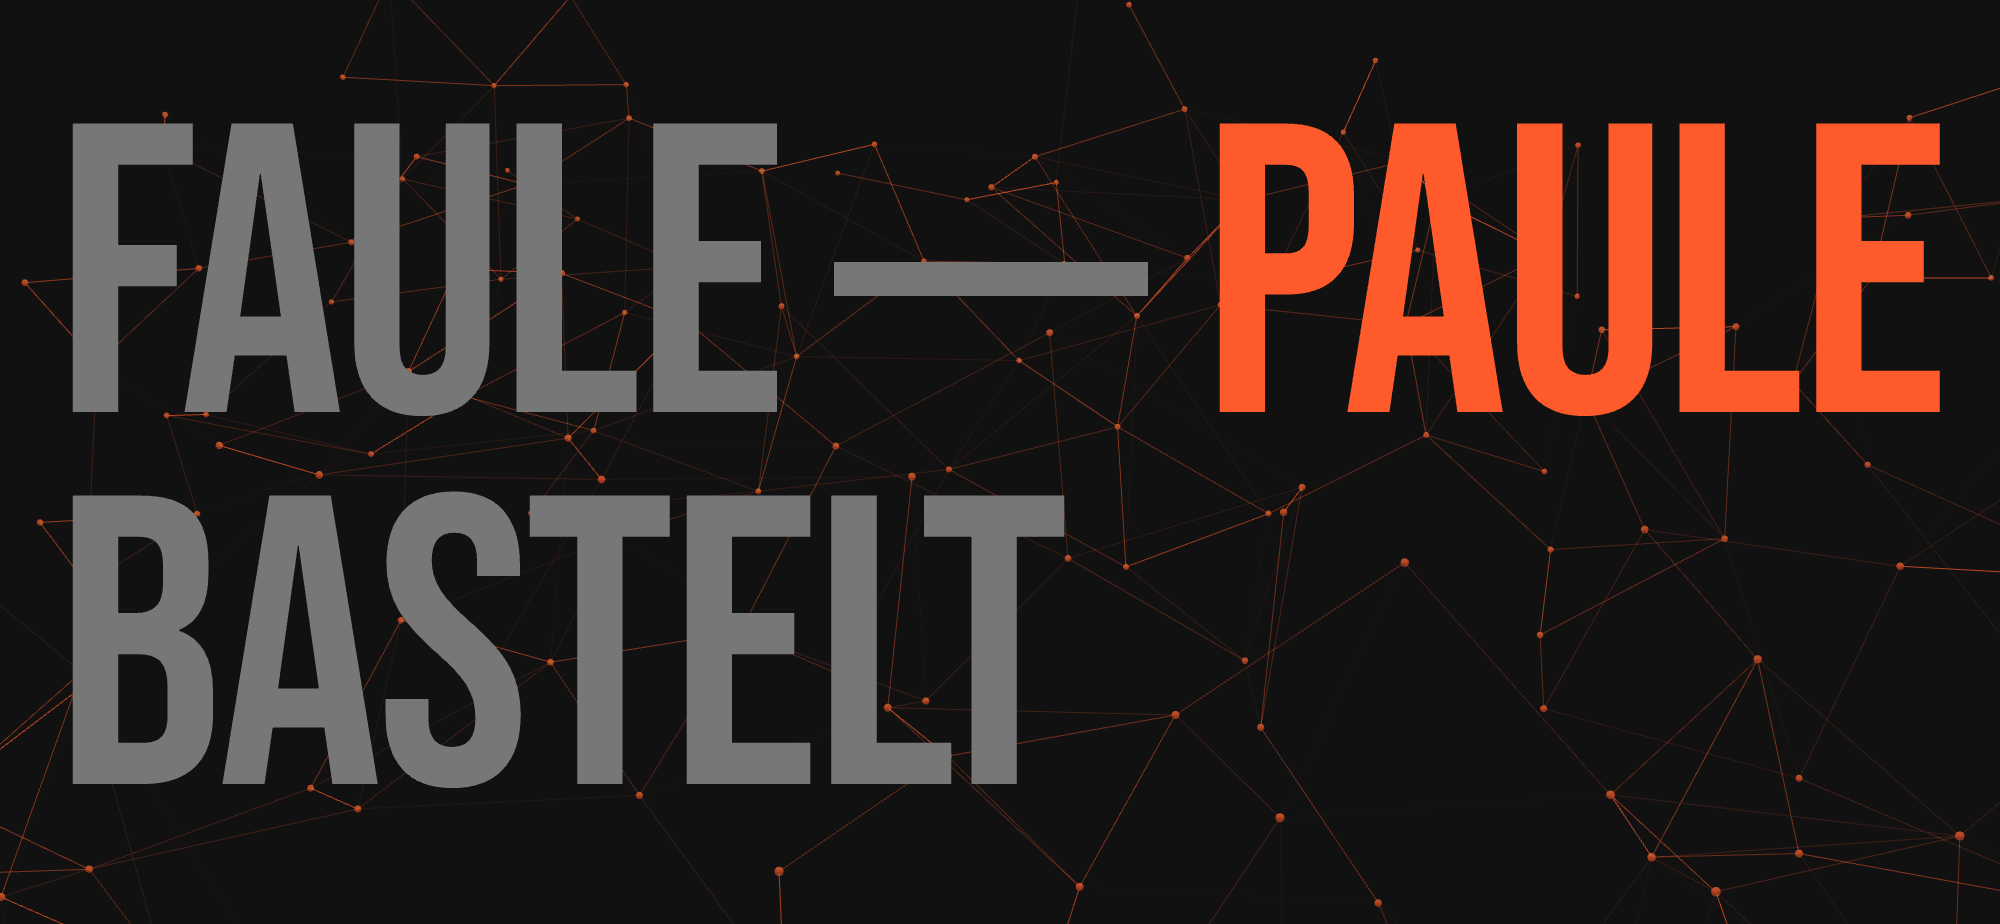
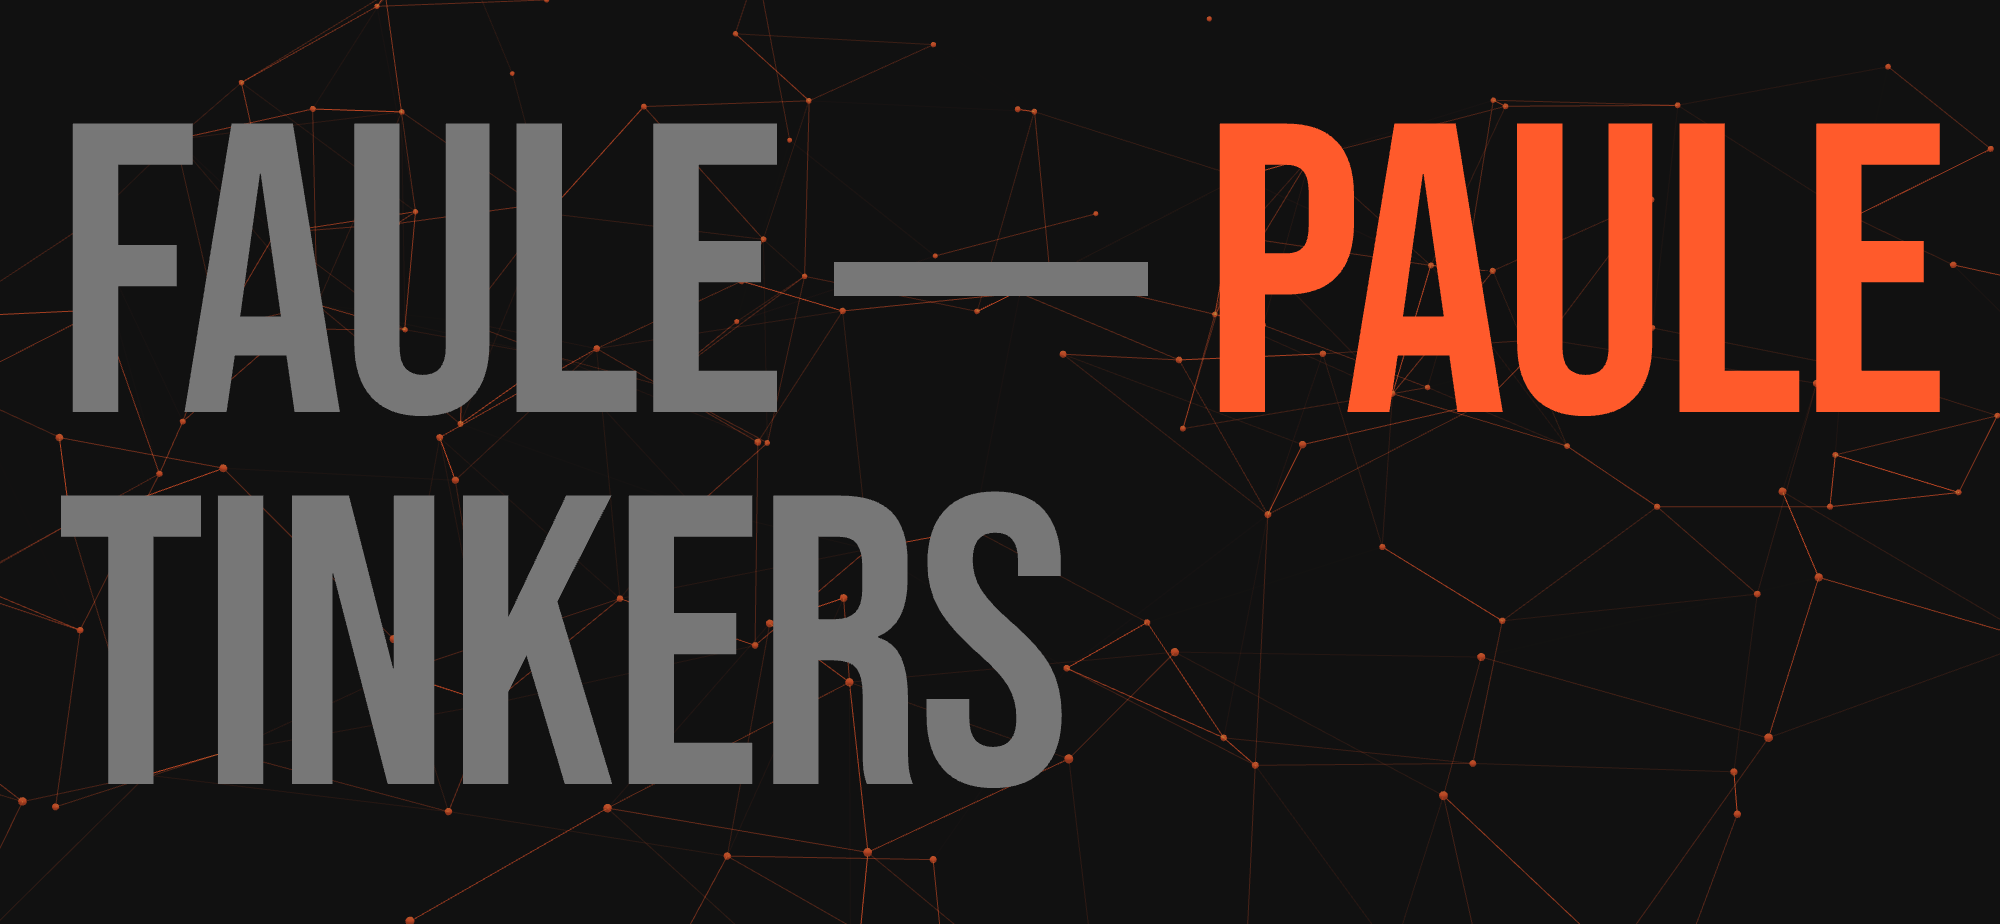
English profile README

diff --git a/README.md b/README.md
@@ -1,34 +1,34 @@
 <a href="https://faulepaule.com">
   <picture>
     <source media="(prefers-color-scheme: dark)" srcset="img/banner-dark.png">
-    <img src="img/banner-light.png" alt="faulepaule bastelt" width="100%">
+    <img src="img/banner-light.png" alt="faulepaule tinkers" width="100%">
   </picture>
 </a>
 
-### Zu faul, es zweimal zu machen.
+### Too lazy to do it twice.
 
-Ich bin Paul. Wenn mich etwas nervt, baue ich ein Werkzeug dagegen und betreibe es selbst: Apps, Web-Tools, Spiele und allerlei für Haus und Camper. Das alles ist ein Hobby. Große Sprachmodelle interessieren mich sehr, und ich nutze sie intensiv für diese Projekte.
+I'm Paul. When something annoys me, I build a tool against it and run it myself: apps, web tools, games and all sorts of things for the house and the campervan. All of this is a hobby. I'm highly interested in large language models, and I use them heavily for these projects.
 
-**Alle Projekte mit Bildern und kurzen Videos: [faulepaule.com](https://faulepaule.com)**
+**All projects with pictures and short videos: [faulepaule.com](https://faulepaule.com)**
 
 <table>
   <tr>
     <td width="33%" valign="top">
       <a href="https://rudelradar.com"><img src="img/rudelradar.jpg" alt="Rudelradar" width="100%"></a>
       <b><a href="https://rudelradar.com">Rudelradar</a></b><br>
-      Das Rudel live auf der Karte<br>
+      The pack live on the map<br>
       <sub>Flutter · Node · Socket.IO</sub>
     </td>
     <td width="33%" valign="top">
       <a href="https://blattgefuehl.de"><img src="img/blattgefuehl.jpg" alt="Blattgefühl" width="100%"></a>
       <b><a href="https://blattgefuehl.de">Blattgefühl</a></b><br>
-      Pflanzen-Checkup per Foto<br>
+      Plant checkup by photo<br>
       <sub>React · PWA · Vision AI</sub>
     </td>
     <td width="33%" valign="top">
       <a href="https://gta6compass.net"><img src="img/gtacompass.jpg" alt="GTA6 Compass" width="100%"></a>
       <b><a href="https://gta6compass.net">GTA6 Compass</a></b><br>
-      Jede Meldung mit Beleg-Etikett<br>
+      Every claim with an evidence label<br>
       <sub>Next.js · TypeScript</sub>
     </td>
   </tr>
@@ -36,23 +36,22 @@ Ich bin Paul. Wenn mich etwas nervt, baue ich ein Werkzeug dagegen und betreibe 
     <td width="33%" valign="top">
       <a href="https://faulepaule.com/#projekte"><img src="img/hagelpilot.jpg" alt="hagelpilot" width="100%"></a>
       <b>hagelpilot</b><br>
-      Hagelwarnung fürs Auto<br>
+      A hail alarm for your car<br>
       <sub>Node · PostGIS · DWD</sub>
     </td>
     <td width="33%" valign="top">
       <a href="https://faulepaule.com/#projekte"><img src="img/cablelength.jpg" alt="CableLength" width="100%"></a>
       <b>CableLength</b><br>
-      Kabelmeter aus dem PDF-Plan<br>
+      Cable metres off the PDF plan<br>
       <sub>React · TypeScript · pdf.js</sub>
     </td>
     <td width="33%" valign="top">
       <a href="https://faulepaule.com/#projekte"><img src="img/vanpanel.jpg" alt="Vanpanel" width="100%"></a>
       <b>Vanpanel</b><br>
-      Ein Dashboard für den Camper<br>
+      One dashboard for the campervan<br>
       <sub>React · Bluetooth · Home Assistant</sub>
     </td>
   </tr>
 </table>
 
-
-Die Repositories sind privat. Was die Projekte können, zeigt die Seite; Fragen gern über den [Kontakt dort](https://faulepaule.com/#kontakt).
+The repositories are private. The page shows what the projects can do; for questions, use the [contact there](https://faulepaule.com/#kontakt).
